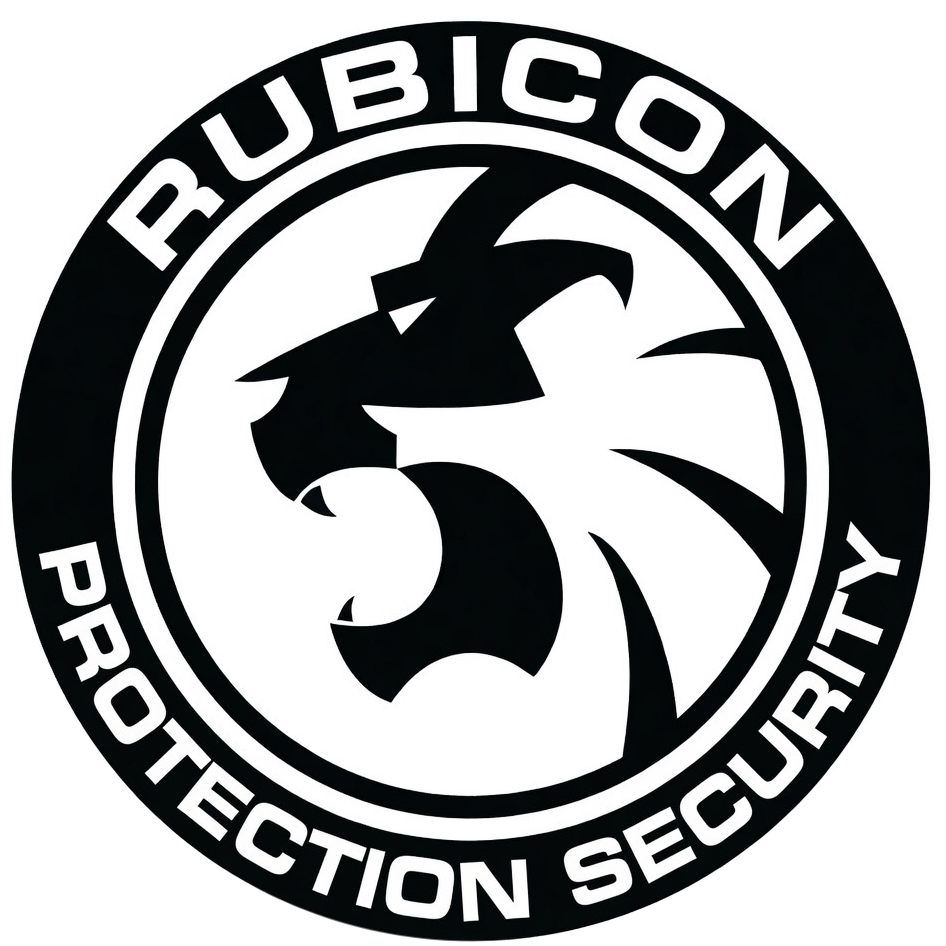
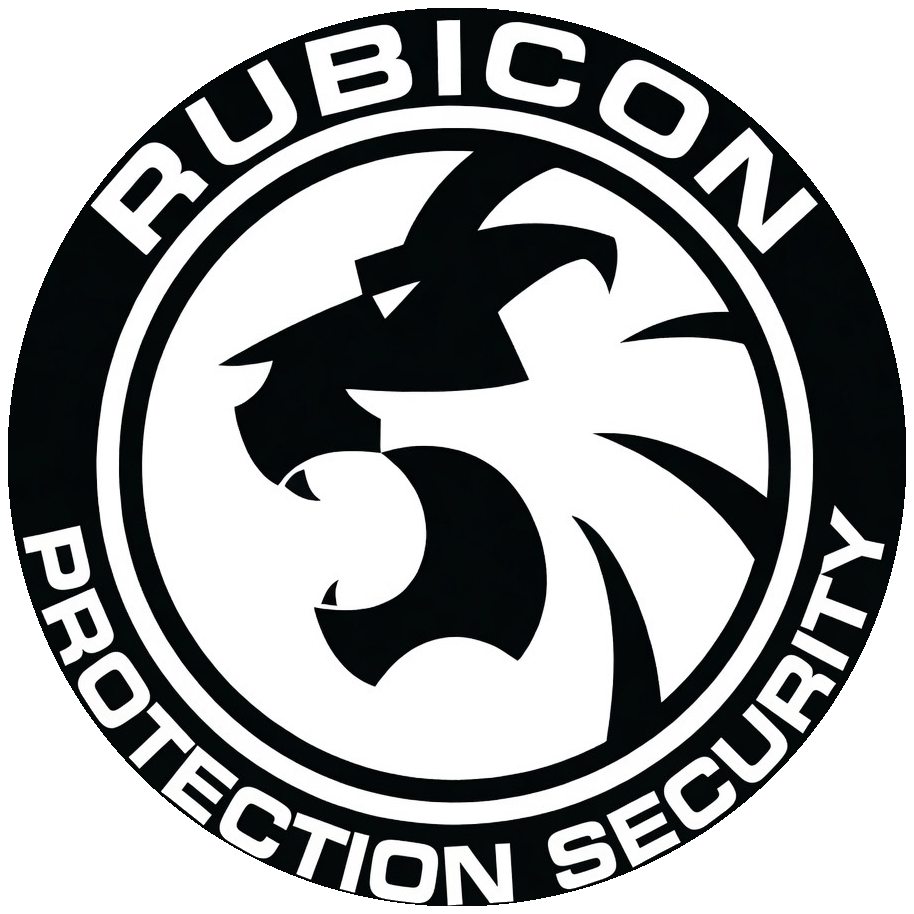
Punch lion mark to a clean transparent black badge
Cut the real logo at the outer black ring so the uneven white halo
is gone. Header mark is about 2x. International copy stays customer-facing.

diff --git a/components/Header.tsx b/components/Header.tsx
@@ -95,10 +95,10 @@ export function Header() {
           <Image
             src={photos.logo.src}
             alt={photos.logo.alt}
-            width={96}
-            height={96}
+            width={128}
+            height={128}
             priority
-            className="h-16 w-16 shrink-0 object-contain sm:h-20 sm:w-20 lg:h-24 lg:w-24"
+            className="h-20 w-20 shrink-0 object-contain sm:h-24 sm:w-24 lg:h-28 lg:w-28"
           />
           <span className="min-w-0">
             <span className="display block text-sm font-semibold uppercase tracking-[0.18em] sm:text-base">

diff --git a/components/Footer.tsx b/components/Footer.tsx
@@ -13,9 +13,9 @@ export function Footer() {
             <Image
               src={photos.logo.src}
               alt={photos.logo.alt}
-              width={80}
-              height={80}
-              className="h-20 w-20 object-contain"
+              width={96}
+              height={96}
+              className="h-24 w-24 object-contain"
             />
             <div>
               <p className="display text-sm font-semibold uppercase tracking-[0.16em]">

diff --git a/lib/photos.ts b/lib/photos.ts
@@ -2,8 +2,8 @@
 export const photos = {
   logo: {
     src: "/rubicon-brand-photos/logo-lion.png",
-    width: 946,
-    height: 946,
+    width: 914,
+    height: 914,
     alt: "Rubicon Protection Security roaring lion mark",
   },
   officer: {

diff --git a/scripts/punch-logo.py b/scripts/punch-logo.py
@@ -1,0 +1,81 @@
+#!/usr/bin/env python3
+"""Punch the real Rubicon lion to a true transparent circle. Do not generate a new mark."""
+
+from pathlib import Path
+
+import numpy as np
+from PIL import Image
+
+ROOT = Path(__file__).resolve().parents[1]
+SRC = ROOT / "public" / "logo-lion.png"
+DESTS = [
+    ROOT / "public" / "logo-lion.png",
+    ROOT / "public" / "icon.png",
+    ROOT / "app" / "icon.png",
+    ROOT / "public" / "rubicon-brand-photos" / "logo-lion.png",
+]
+
+
+def punch(src: Path) -> Image.Image:
+    im = Image.open(src).convert("RGBA")
+    arr = np.array(im)
+    h, w = arr.shape[:2]
+    cy = (h - 1) / 2.0
+    cx = (w - 1) / 2.0
+
+    rgb = arr[:, :, :3].astype(np.int32)
+    alpha = arr[:, :, 3]
+    dark = (rgb.sum(axis=2) < 80) & (alpha > 200)
+    ys, xs = np.where(dark)
+    if len(xs) < 50:
+        raise SystemExit(f"Could not find dark opaque pixels in {src}")
+
+    yy, xx = np.ogrid[:h, :w]
+    dist = np.sqrt((yy - cy) ** 2 + (xx - cx) ** 2)
+    # Naive max() of dark pixels sits on AA specks outside the white halo.
+    # The outer black ring is the largest radius whose 1px band is mostly dark.
+    r_max_raw = float(dist[dark].max())
+    r_ring = 0.0
+    for r in range(int(r_max_raw) + 1):
+        band = (dist >= r) & (dist < r + 1) & (alpha > 200)
+        if int(band.sum()) < 100:
+            continue
+        frac = float(((rgb.sum(axis=2) < 80) & band).sum()) / float(band.sum())
+        if frac >= 0.85:
+            r_ring = float(r + 1)
+    if r_ring < 20:
+        r_ring = float(np.percentile(dist[dark], 95))
+    radius = r_ring - 1.5
+
+    arr[dist > radius, 3] = 0
+
+    rim = (dist >= (radius - 6.0)) & (dist <= radius)
+    near_white = (rgb[:, :, 0] > 200) & (rgb[:, :, 1] > 200) & (rgb[:, :, 2] > 200)
+    arr[rim & near_white, 3] = 0
+
+    ys2, xs2 = np.where(arr[:, :, 3] > 0)
+    pad = 8
+    box = (
+        max(0, int(xs2.min()) - pad),
+        max(0, int(ys2.min()) - pad),
+        min(w, int(xs2.max()) + pad + 1),
+        min(h, int(ys2.max()) + pad + 1),
+    )
+    out = Image.fromarray(arr, mode="RGBA").crop(box)
+    print(
+        f"src={src.name} {im.size} dark_r_raw={r_max_raw:.1f} ring={r_ring:.1f} mask_r={radius:.1f} "
+        f"out={out.size} alpha={out.getextrema()[3]}"
+    )
+    return out
+
+
+def main() -> None:
+    out = punch(SRC)
+    for dest in DESTS:
+        dest.parent.mkdir(parents=True, exist_ok=True)
+        out.save(dest, format="PNG", optimize=True)
+        print(f"wrote {dest.relative_to(ROOT)}")
+
+
+if __name__ == "__main__":
+    main()
